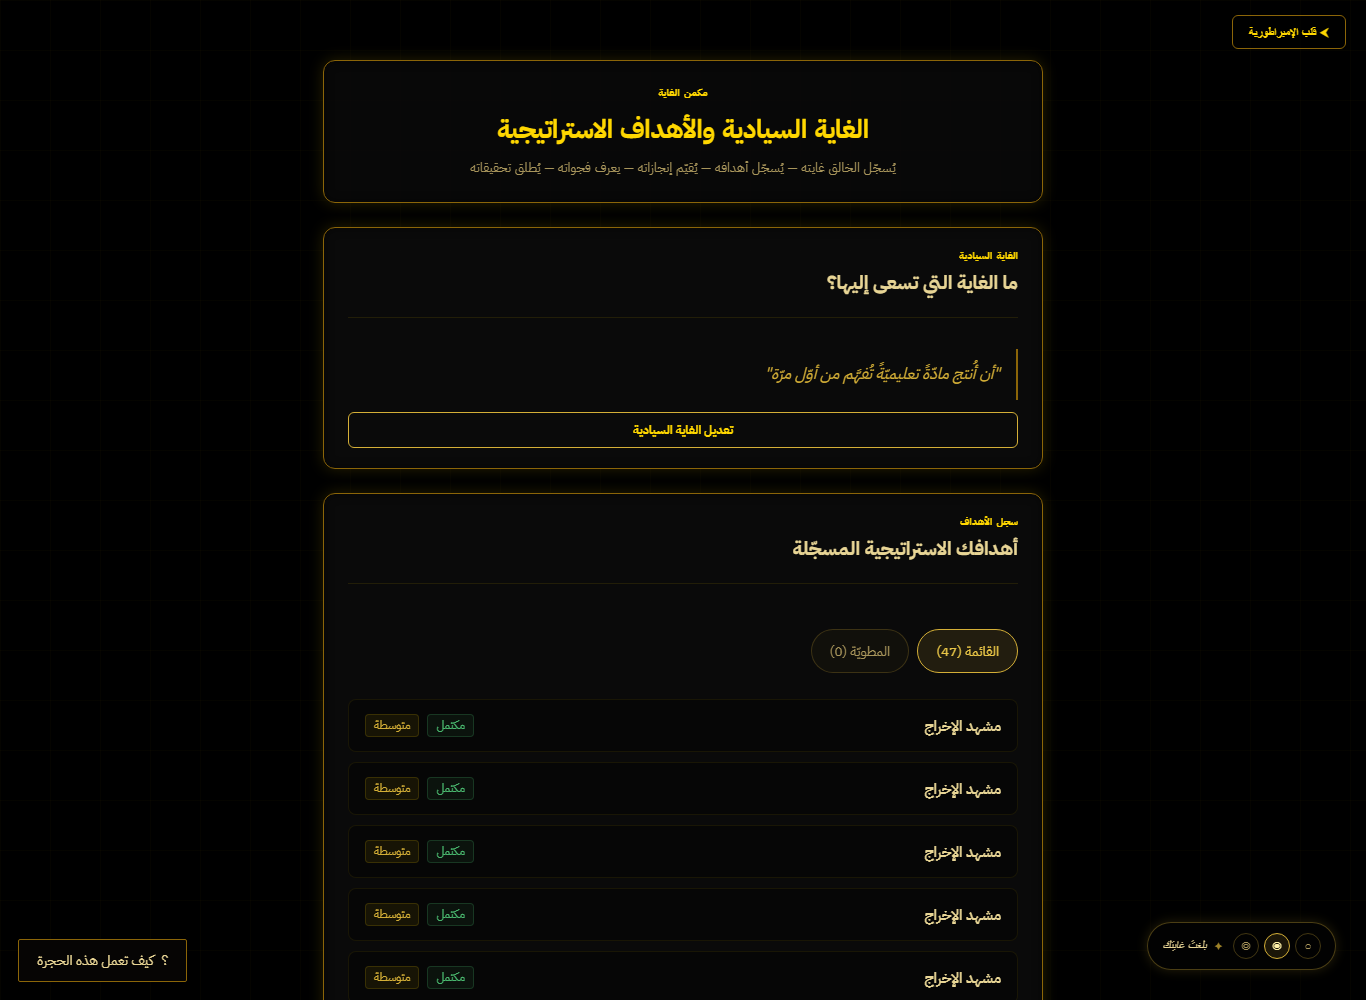
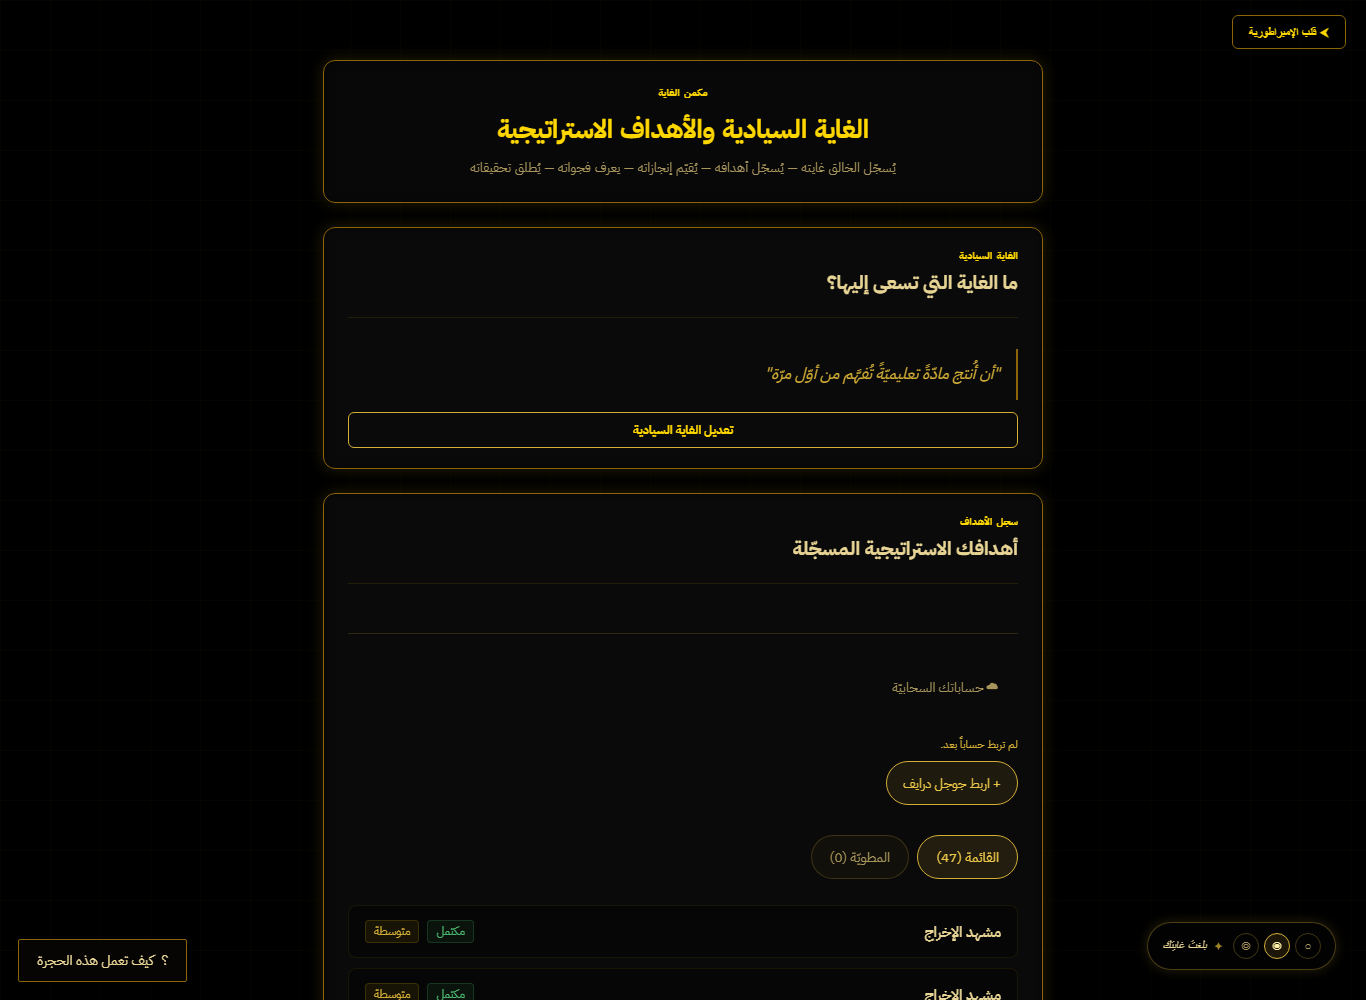
Every ending of the link route leaves a trace
MEASURED 2026-10-03: a real Google link attempt ended with no account
stored and NOTHING in the server log. Four of this route's six endings
returned silently; the one that did log was the only one that could not
have been the cause. The evidence pointed nowhere.

The outcome is now recorded on every path — a short word this file chose,
never a token, never a code, never anything Google sent.

diff --git a/app/api/cloud/google/callback/route.ts b/app/api/cloud/google/callback/route.ts
@@ -21,6 +21,16 @@ const SESSION_COOKIE = 'azma_session';
 const RETURN_TO = 'https://azmaos.com/makman-al-ghayah';
 
 function back(outcome: string): NextResponse {
+  // ── EVERY ENDING LEAVES A TRACE ─────────────────────────────────────────
+  //   MEASURED 2026-10-03: a real link attempt ended with no account stored
+  //   and NOTHING in the server log, because four of this route's six endings
+  //   returned silently. The one failure that did log was the only one that
+  //   could not have been the cause, so the evidence pointed nowhere.
+  //
+  //   The outcome is a short word this file chose — never a token, never a
+  //   code, never anything Google sent. A route that can fail six ways must
+  //   be able to say which.
+  console.log('[cloud/google] outcome:', outcome);
   const response = NextResponse.redirect(`${RETURN_TO}?cloud=${encodeURIComponent(outcome)}`);
   // The one-use values are spent whatever happened. A state cookie that
   // outlives its exchange is a state cookie that can be replayed.
